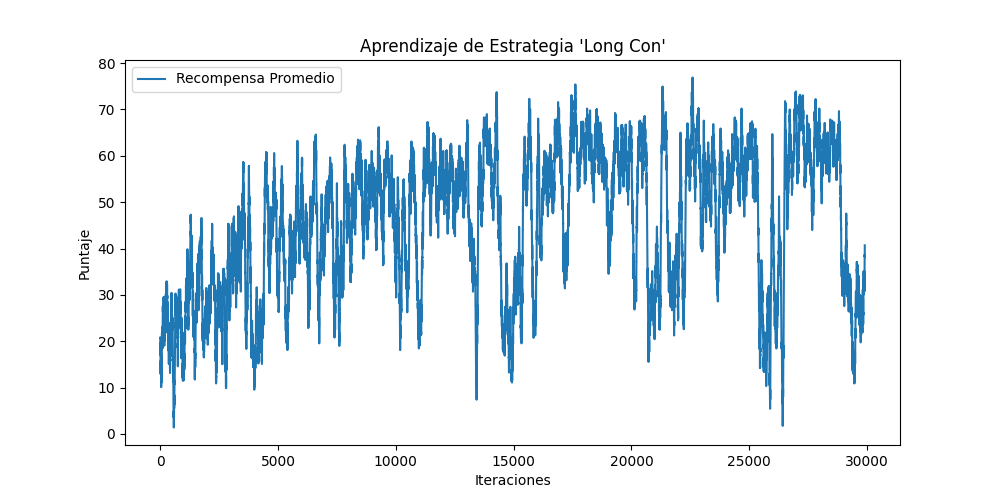
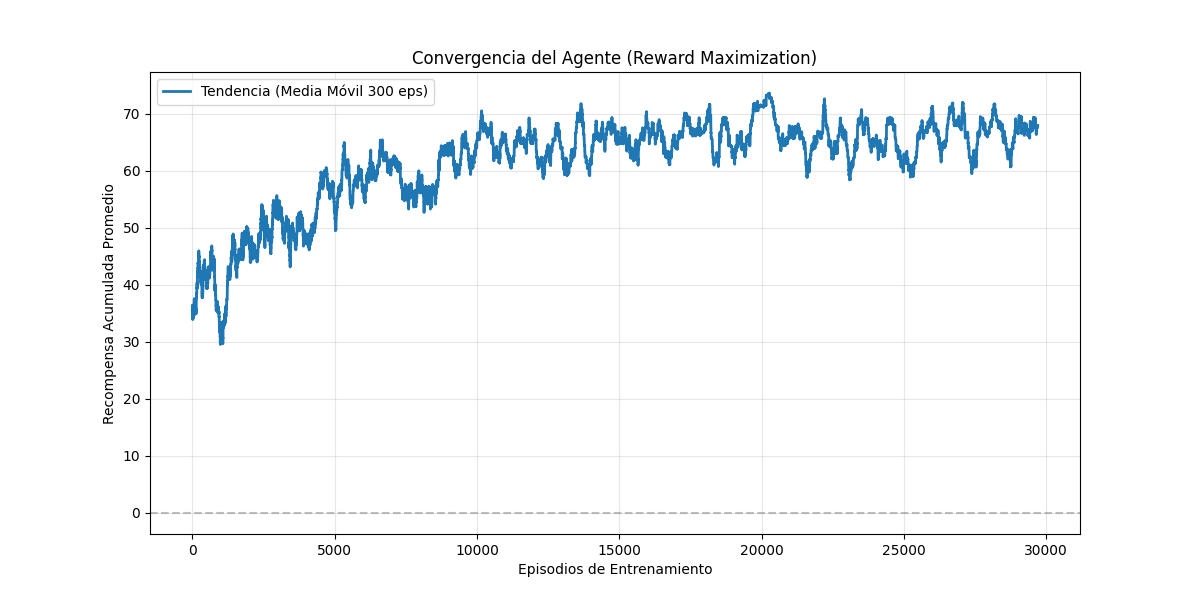
sincronizacion

diff --git a/simulation/entrenar.py b/simulation/entrenar.py
@@ -5,13 +5,12 @@ import time
 import matplotlib.pyplot as plt
 import numpy as np
 
+# --- CONFIGURACIÓN DE RUTAS ---
 sys.path.append(os.path.join(os.path.dirname(__file__), '../ai_agent'))
 sys.path.append(os.path.join(os.path.dirname(__file__), '../game_engine'))
 
 from NpcAgent import NpcAgent
 from simulador import BotJugador
-# Mock del motor para entrenamiento rápido (no necesitamos la clase completa visual)
-# Solo necesitamos saber que hay 3 caminos
 
 class RewardSystem:
     @staticmethod
@@ -20,7 +19,7 @@ class RewardSystem:
         is_lie = (npc_suggestion != correct_path)
         r = 0
 
-        # Mismas reglas de "Long Con", funcionan igual con 3 caminos
+        # Reglas de "Long Con"
         if is_lie and not is_player_correct and player_trusts:
             if level == 0: r = 10   
             elif level == 1: r = 30 
@@ -39,8 +38,8 @@ class RewardSystem:
 class Entrenador:
     def __init__(self, episodios=10000):
         self.episodios = episodios
+        # Nota: Asumimos que ya cambiaste el alpha a 0.01 en tu NpcAgent.py como mencionaste
         self.agent = NpcAgent()
-        # Métricas simples para esta versión
         self.historia_recompensas = []
 
     def ejecutar(self):
@@ -50,7 +49,7 @@ class Entrenador:
             bot = BotJugador()
             
             for level in range(3):
-                # 1. Entorno: 0, 1 o 2
+                # 1. Entorno
                 correct_path = random.randint(0, 2)
                 
                 # 2. IA Elige
@@ -63,11 +62,10 @@ class Entrenador:
                 # 4. Recompensa
                 reward = RewardSystem.get_reward(level, action_suggestion, bot_choice, correct_path, bot.confianza > 0.5)
                 
-                # 5. Next State
+                # 5. Siguiente Estado
                 is_lie = (action_suggestion != correct_path)
                 next_trust = False if is_lie else True
                 next_level = min(level + 1, 2)
-                # Usamos path 0 como dummy para el next state
                 next_state_idx = self.agent.get_state_index(next_level, next_trust, 0)
                 
                 self.agent.actualizar_q(state_idx, action_suggestion, reward, next_state_idx)
@@ -86,6 +84,38 @@ class Entrenador:
 
         self.agent.guardar_q()
         print("--- FINALIZADO ---")
+        
+        # --- AQUÍ FALTABA LA LLAMADA ---
+        self.generar_grafico_suave()
+
+
+    def generar_grafico_suave(self):
+        plt.figure(figsize=(12, 6))
+        
+        ventana = 300 
+        if len(self.historia_recompensas) > ventana:
+            data_suave = np.convolve(self.historia_recompensas, np.ones(ventana)/ventana, mode='valid')
+            
+            plt.plot(data_suave, color='#1f77b4', linewidth=2, label=f'Tendencia (Media Móvil {ventana} eps)')
+            plt.axhline(0, color='gray', linestyle='--', alpha=0.5)
+            
+            plt.title("Convergencia del Agente (Reward Maximization)")
+            plt.xlabel("Episodios de Entrenamiento")
+            plt.ylabel("Recompensa Acumulada Promedio")
+            plt.legend()
+            plt.grid(True, alpha=0.3)
+            
+            # Garantizar ruta absoluta para evitar confusiones
+            ruta_actual = os.path.dirname(os.path.abspath(__file__))
+            nombre_archivo = "reporte_aprendizaje.png"
+            ruta_completa = os.path.join(ruta_actual, nombre_archivo)
+            
+            plt.savefig(ruta_completa)
+            plt.close()
+            
+            print(f"\n[ÉXITO] Gráfica guardada EXACTAMENTE en:\n -> {ruta_completa}")
+        else:
+            print("[AVISO] No hay suficientes datos para suavizar la gráfica.")
 
 if __name__ == "__main__":
     app = Entrenador()

diff --git a/ai_agent/NpcAgent.py b/ai_agent/NpcAgent.py
@@ -4,7 +4,7 @@ import pickle
 import os
 
 class NpcAgent:
-    def __init__(self, alpha=0.1, gamma=0.95, epsilon=1.0, archivo_q='cerebro_entrenado.pkl'):
+    def __init__(self, alpha=0.01, gamma=0.95, epsilon=1.0, archivo_q='cerebro_entrenado.pkl'):
         """
         Estados (18) = 3 Niveles * 2 Confianzas * 3 Caminos
         Acciones (3) = 0: Izq, 1: Centro, 2: Der
